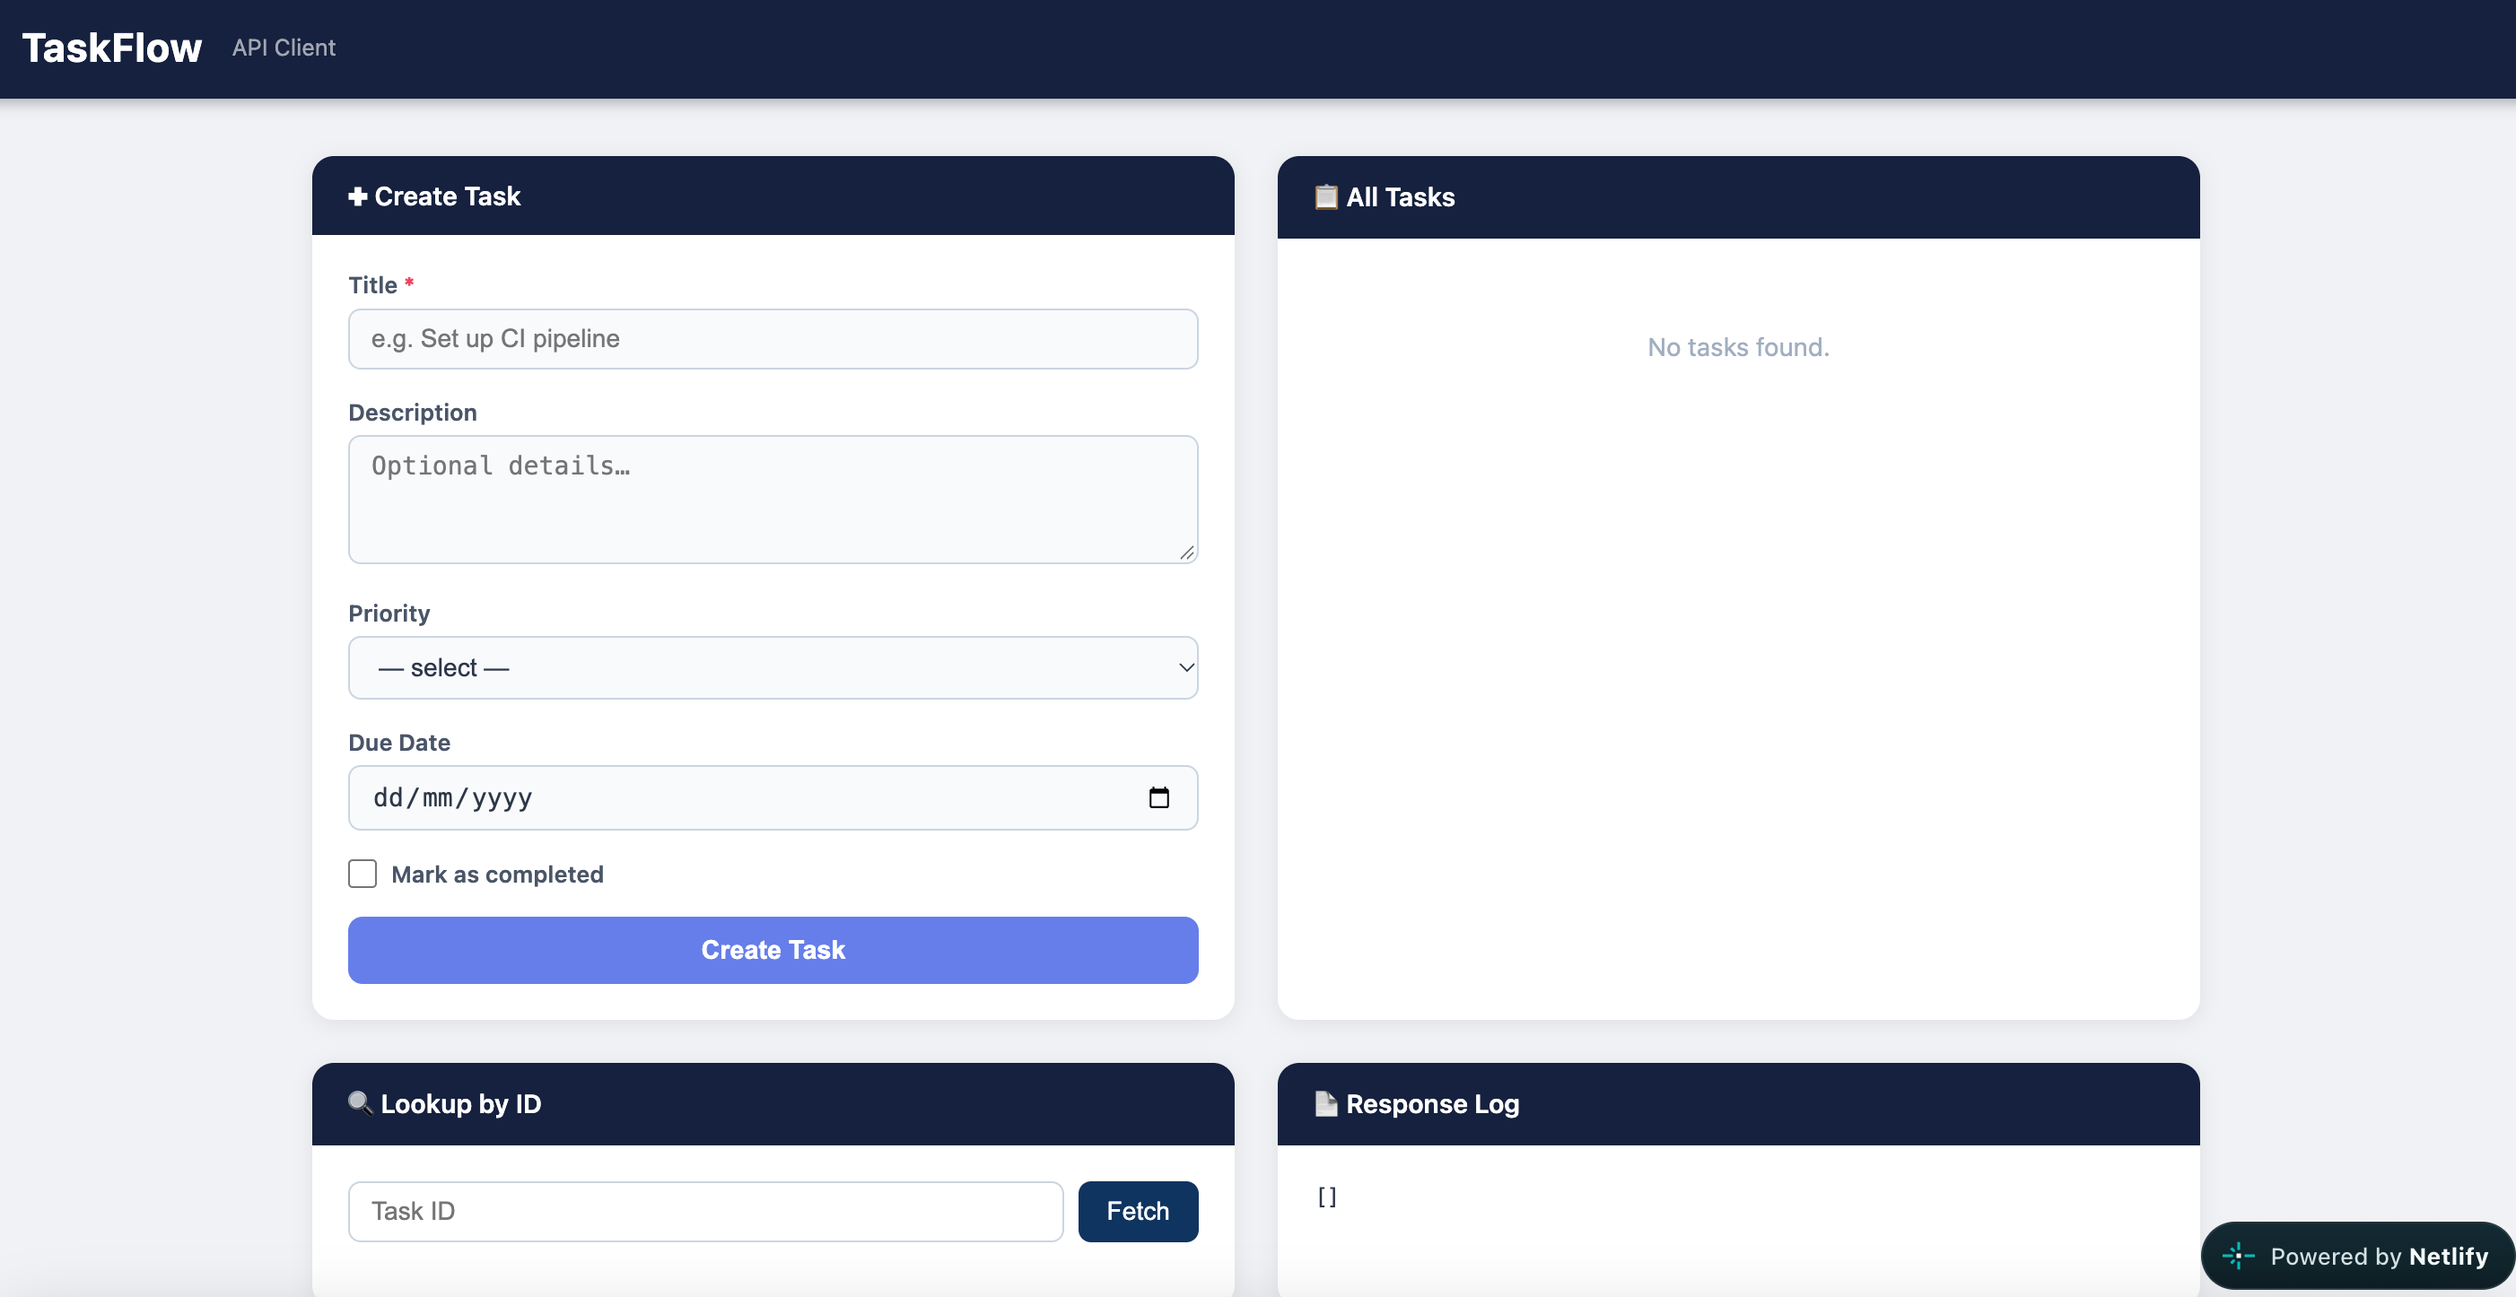
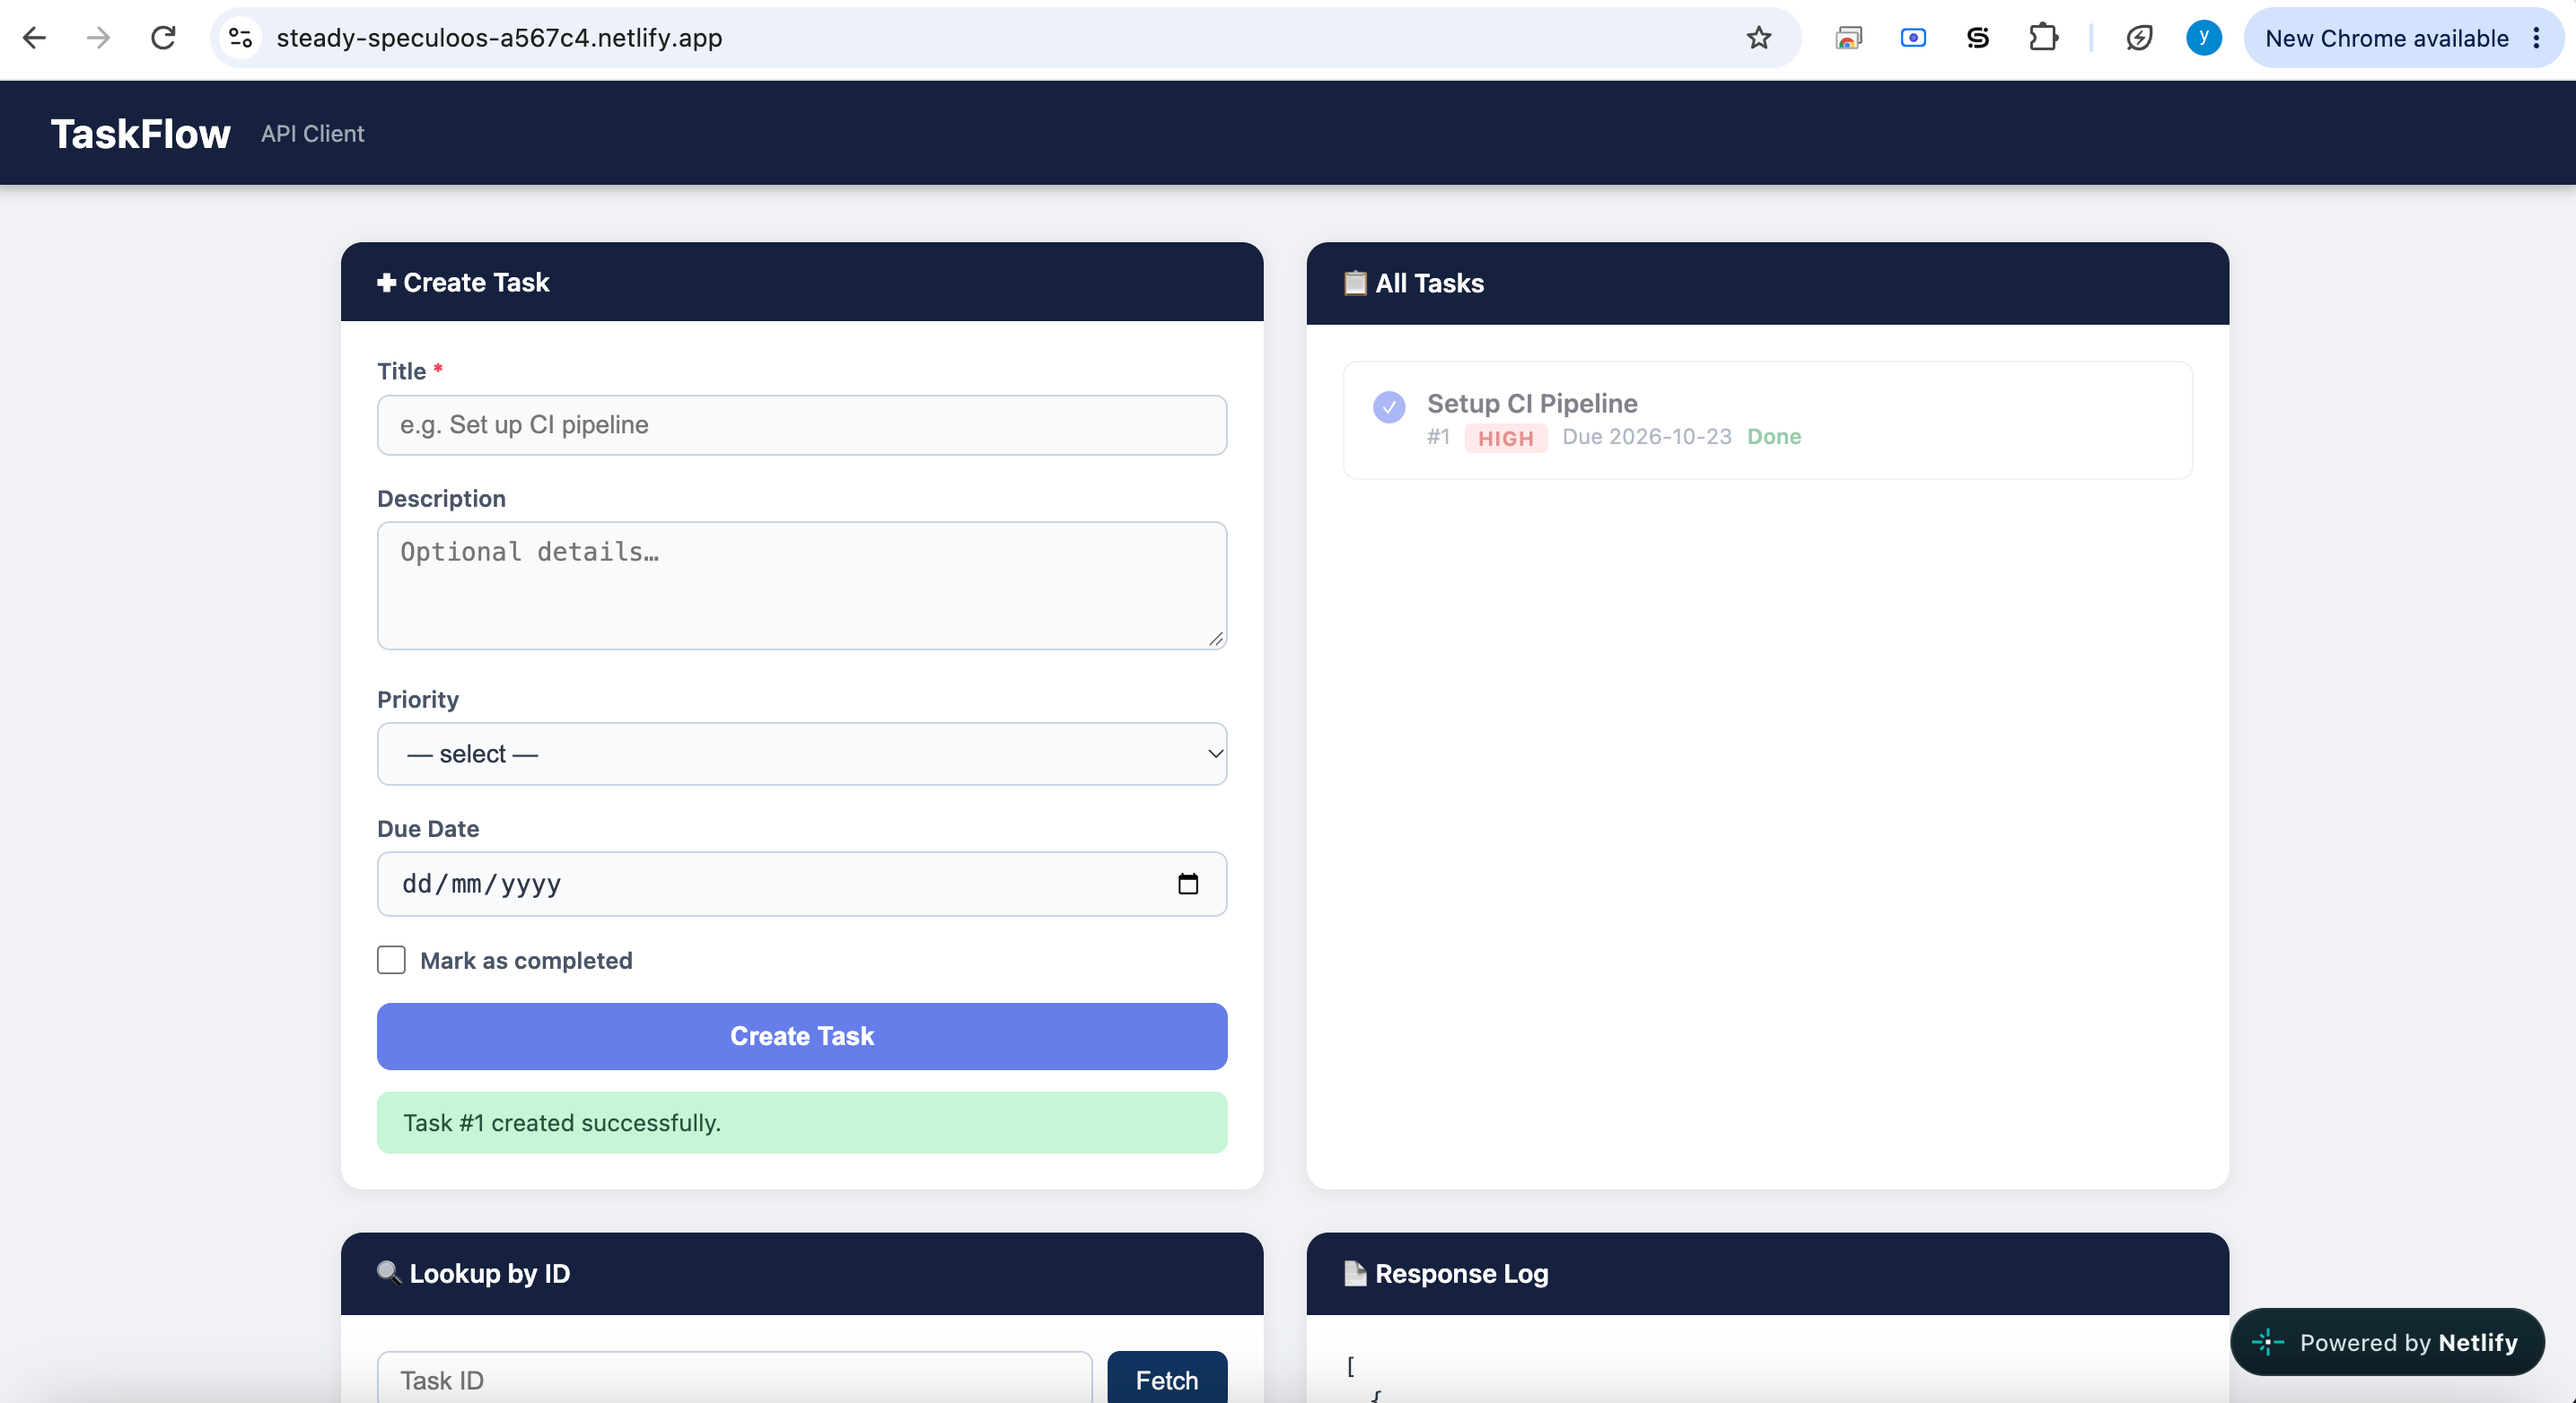
Update screenshot and add client screenshot to readme.md

diff --git a/README.md b/README.md
@@ -29,6 +29,12 @@ Your live Railway URL returning task data (in your browser or terminal).
 
 ![Live application](screenshots/application.png)
 
+### Screenshot: Client application
+
+Your live Client URL showing task data (in your browser or terminal).
+
+![Live application](screenshots/client.png)
+
 ### Errors and failures
 
 If you didn't complete every task, list what you completed, what went wrong, and the error messages you saw. If everything worked, write "None".
